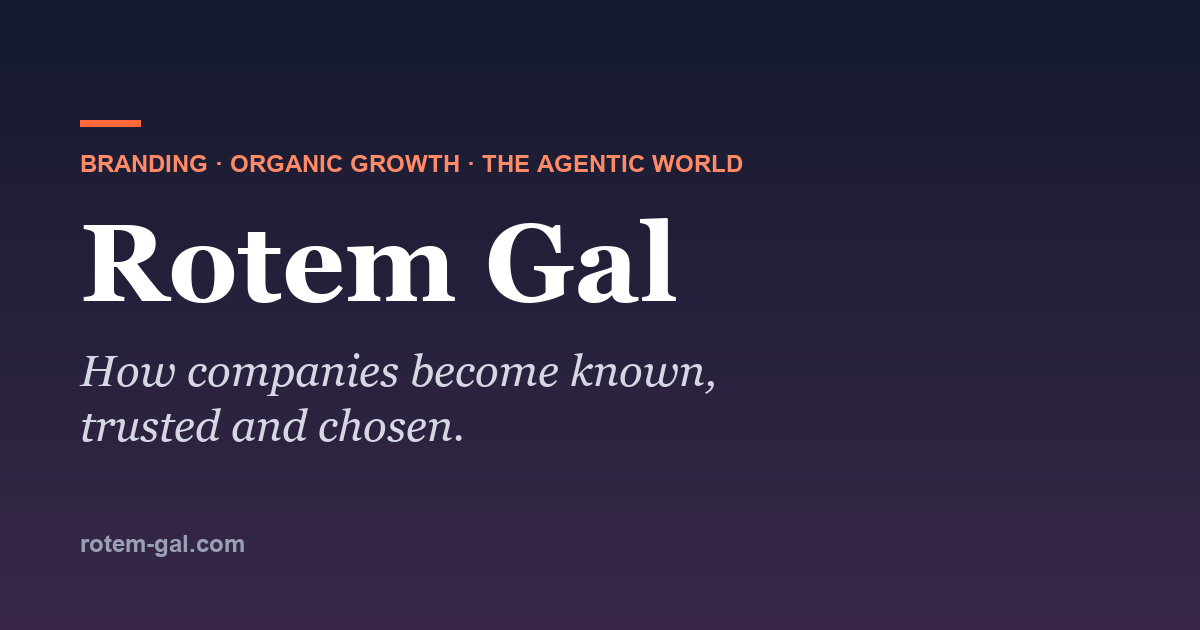
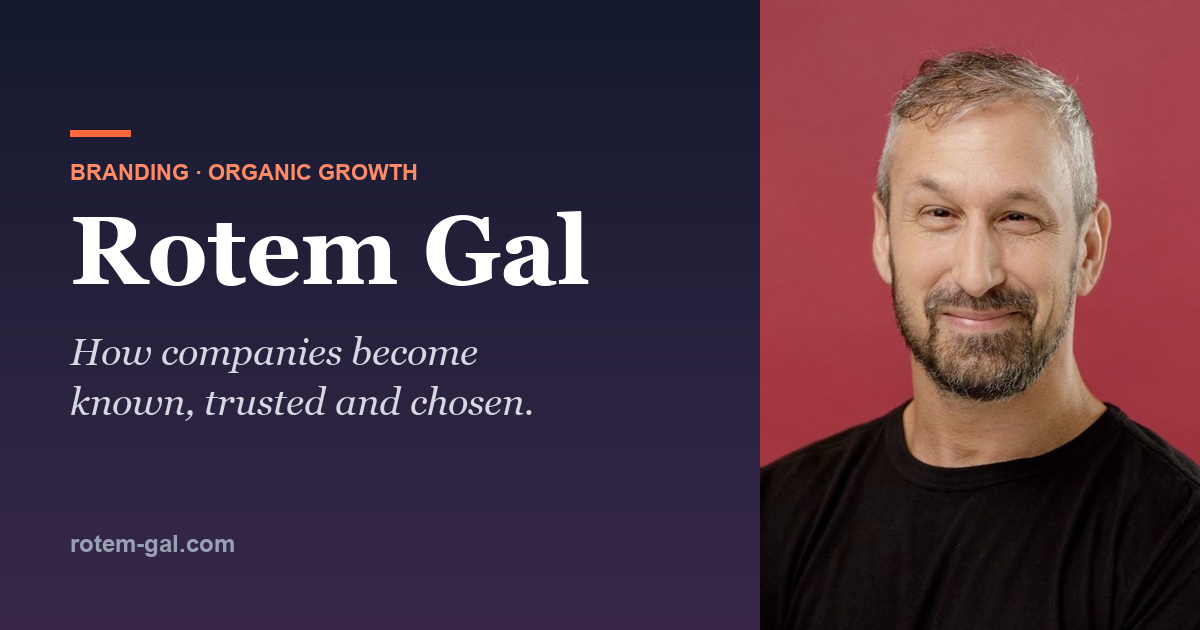
Add headshot to hero, about, media kit, schema and og image

diff --git a/media-kit.html b/media-kit.html
@@ -98,7 +98,12 @@
     "https://www.inc.com/author/rotem-gal",
     "https://www.entrepreneur.com/author/rotem-gal",
     "https://www.referralcandy.com/author/rotemg"
-   ]
+   ],
+   "image": {
+    "@type": "ImageObject",
+    "url": "https://www.rotem-gal.com/images/rotem-gal-square.jpg",
+    "caption": "Rotem Gal"
+   }
   },
   {
    "@type": "WebPage",
@@ -185,7 +190,7 @@
 
       <div class="prose" style="margin-top:48px"><h2>Photos</h2></div>
       <div class="shots">
-        <div class="shot">Headshot, color<br>(coming soon)</div>
+        <a class="shot shot-img" href="/images/rotem-gal.jpg" download><img src="/images/rotem-gal-800.jpg" alt="Rotem Gal headshot" loading="lazy"><span>Download headshot</span></a>
         <div class="shot">Headshot, black and white<br>(coming soon)</div>
         <div class="shot">On stage<br>(coming soon)</div>
       </div>

diff --git a/index.html b/index.html
@@ -98,7 +98,12 @@
     "https://www.inc.com/author/rotem-gal",
     "https://www.entrepreneur.com/author/rotem-gal",
     "https://www.referralcandy.com/author/rotemg"
-   ]
+   ],
+   "image": {
+    "@type": "ImageObject",
+    "url": "https://www.rotem-gal.com/images/rotem-gal-square.jpg",
+    "caption": "Rotem Gal"
+   }
   },
   {
    "@type": "ProfilePage",
@@ -152,8 +157,7 @@
     </div>
     <div class="portrait">
       <div class="badge">Speaking at Becoming 10x · Nov 2026</div>
-      <div class="initials">RG</div>
-      <div class="ph-note">Headshot goes here (headshot.jpg, 4:5)</div>
+      <img src="/images/rotem-gal-800.jpg" srcset="/images/rotem-gal-800.jpg 800w, /images/rotem-gal.jpg 1200w" sizes="(max-width:900px) 380px, 440px" width="800" height="1000" alt="Rotem Gal" fetchpriority="high">
     </div>
   </div>
 </section>

diff --git a/about.html b/about.html
@@ -98,7 +98,12 @@
     "https://www.inc.com/author/rotem-gal",
     "https://www.entrepreneur.com/author/rotem-gal",
     "https://www.referralcandy.com/author/rotemg"
-   ]
+   ],
+   "image": {
+    "@type": "ImageObject",
+    "url": "https://www.rotem-gal.com/images/rotem-gal-square.jpg",
+    "caption": "Rotem Gal"
+   }
   },
   {
    "@type": "ProfilePage",
@@ -246,6 +251,7 @@
     </div>
 
     <aside class="facts">
+      <img class="facts-photo" src="/images/rotem-gal-square.jpg" alt="Rotem Gal" width="1000" height="1000" loading="lazy">
       <h2>At a glance</h2>
       <dl>
         <dt>Name</dt><dd>Rotem Gal</dd>

diff --git a/styles.css b/styles.css
@@ -200,3 +200,9 @@
     .shots{grid-template-columns:1fr 1fr}
     .talk{grid-template-columns:1fr;gap:8px}
   }
+  .portrait img{position:absolute;inset:0;width:100%;height:100%;object-fit:cover}
+  .portrait .badge{z-index:1}
+  .facts-photo{width:100%;height:auto;border-radius:10px;margin-bottom:20px}
+  .shot-img{position:relative;padding:0;overflow:hidden;text-decoration:none}
+  .shot-img img{position:absolute;inset:0;width:100%;height:100%;object-fit:cover}
+  .shot-img span{position:absolute;left:10px;right:10px;bottom:10px;background:rgba(20,26,46,.8);color:#fff;border-radius:999px;padding:6px 10px;font-weight:600}

diff --git a/_src/home.html b/_src/home.html
@@ -13,8 +13,7 @@
     </div>
     <div class="portrait">
       <div class="badge">Speaking at Becoming 10x · Nov 2026</div>
-      <div class="initials">RG</div>
-      <div class="ph-note">Headshot goes here (headshot.jpg, 4:5)</div>
+      <img src="/images/rotem-gal-800.jpg" srcset="/images/rotem-gal-800.jpg 800w, /images/rotem-gal.jpg 1200w" sizes="(max-width:900px) 380px, 440px" width="800" height="1000" alt="Rotem Gal" fetchpriority="high">
     </div>
   </div>
 </section>

diff --git a/speaking.html b/speaking.html
@@ -98,7 +98,12 @@
     "https://www.inc.com/author/rotem-gal",
     "https://www.entrepreneur.com/author/rotem-gal",
     "https://www.referralcandy.com/author/rotemg"
-   ]
+   ],
+   "image": {
+    "@type": "ImageObject",
+    "url": "https://www.rotem-gal.com/images/rotem-gal-square.jpg",
+    "caption": "Rotem Gal"
+   }
   },
   {
    "@type": "CollectionPage",

diff --git a/writing.html b/writing.html
@@ -98,7 +98,12 @@
     "https://www.inc.com/author/rotem-gal",
     "https://www.entrepreneur.com/author/rotem-gal",
     "https://www.referralcandy.com/author/rotemg"
-   ]
+   ],
+   "image": {
+    "@type": "ImageObject",
+    "url": "https://www.rotem-gal.com/images/rotem-gal-square.jpg",
+    "caption": "Rotem Gal"
+   }
   },
   {
    "@type": "CollectionPage",

diff --git a/404.html b/404.html
@@ -98,7 +98,12 @@
     "https://www.inc.com/author/rotem-gal",
     "https://www.entrepreneur.com/author/rotem-gal",
     "https://www.referralcandy.com/author/rotemg"
-   ]
+   ],
+   "image": {
+    "@type": "ImageObject",
+    "url": "https://www.rotem-gal.com/images/rotem-gal-square.jpg",
+    "caption": "Rotem Gal"
+   }
   },
   {
    "@type": "WebPage",

diff --git a/build.py b/build.py
@@ -11,7 +11,7 @@ ROOT = Path(__file__).parent
 SITE = "https://www.rotem-gal.com"
 PERSON_ID = f"{SITE}/#person"
 WEBSITE_ID = f"{SITE}/#website"
-HEADSHOT = None  # set to "/images/rotem-gal.jpg" once the photo is added
+HEADSHOT = "/images/rotem-gal-square.jpg"
 
 SHORT_BIO = (
     "Rotem Gal is a Tel Aviv-based marketer and writer focused on branding, organic growth "
@@ -303,6 +303,7 @@ about_body = f"""<section class="page-hero">
     </div>
 
     <aside class="facts">
+      <img class="facts-photo" src="/images/rotem-gal-square.jpg" alt="Rotem Gal" width="1000" height="1000" loading="lazy">
       <h2>At a glance</h2>
       <dl>
         <dt>Name</dt><dd>Rotem Gal</dd>
@@ -491,7 +492,7 @@ media_body = f"""<section class="page-hero">
 
       <div class="prose" style="margin-top:48px"><h2>Photos</h2></div>
       <div class="shots">
-        <div class="shot">Headshot, color<br>(coming soon)</div>
+        <a class="shot shot-img" href="/images/rotem-gal.jpg" download><img src="/images/rotem-gal-800.jpg" alt="Rotem Gal headshot" loading="lazy"><span>Download headshot</span></a>
         <div class="shot">Headshot, black and white<br>(coming soon)</div>
         <div class="shot">On stage<br>(coming soon)</div>
       </div>
